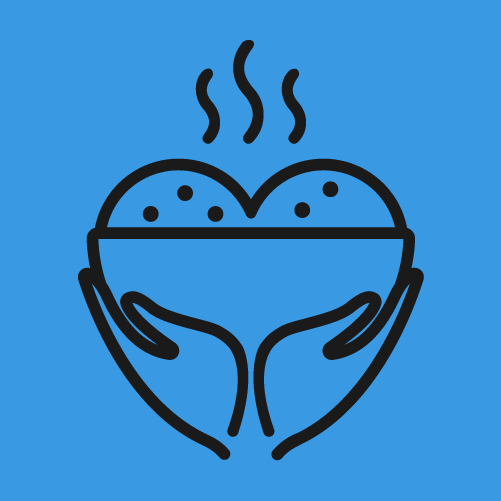
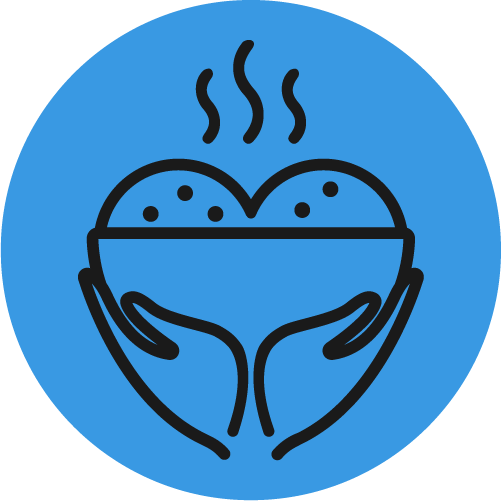
Graphical Changes
Updated size for launch BG - 500px
changed fonts for the opening screen

Changed region(s): [[0.0, 0.509, 1.0, 1.0], [0.5389, 0.0, 1.0, 0.479], [0.0, 0.0, 0.4491, 0.479]]

diff --git a/Foodonation/lib/splashscreen.dart b/Foodonation/lib/splashscreen.dart
@@ -56,7 +56,7 @@ class _SplashScreenState extends State<SplashScreen> {
                   'Hi, Welcome to Foodonation',
                   style: TextStyle(
                     fontSize: 22,
-                    fontFamily: 'HelveticaNeue',
+                    fontFamily: 'Avenir',
                     fontWeight: FontWeight.w700,
                     //Black Text
                     color: Color(0xff2D3436),
@@ -87,7 +87,7 @@ class _SplashScreenState extends State<SplashScreen> {
                   textAlign: TextAlign.center,
                   style: TextStyle(
                     fontSize: 18,
-                    fontFamily: 'HelveticaNeue',
+                    fontFamily: 'Avenir',
                     fontWeight: FontWeight.w300,
                     color: Color(0xff2D3436),
                   ),
@@ -110,7 +110,7 @@ class _SplashScreenState extends State<SplashScreen> {
                   style: TextStyle(
                     color: Color(0xffFFFFFF),
                     fontSize: 15,
-                    fontFamily: 'HelveticaNeue',
+                    fontFamily: 'Avenir',
                     fontWeight: FontWeight.w500,
                   ),
                 ),
